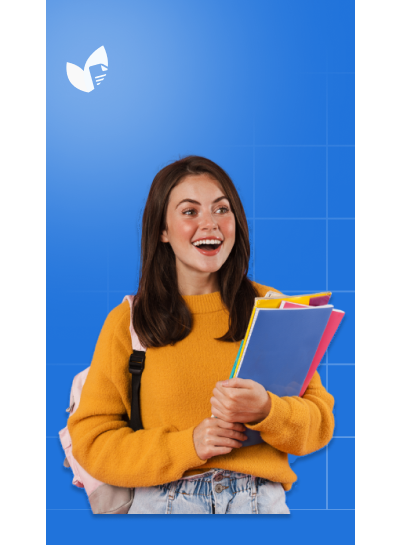
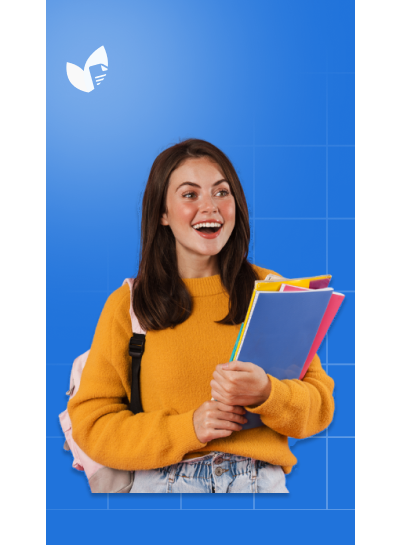
feat: "Selangkah Lagi!" page done

Changed region(s): [[0.15, 0.2495, 0.87, 0.967]]

diff --git a/lib/main.dart b/lib/main.dart
@@ -3,13 +3,11 @@ import 'package:ngoding_project/pages/login.dart';
 import 'package:ngoding_project/pages/splash.dart';
 import 'package:ngoding_project/pages/home.dart';
 import 'package:ngoding_project/pages/editsurvey.dart';
-import 'package:ngoding_project/pages/preview.dart'; // Tambahkan import untuk PreviewPage
-import 'package:ngoding_project/pages/verification.dart'; // Tambahkan import untuk VerificationPage
+import 'package:ngoding_project/pages/preview.dart';
+import 'package:ngoding_project/pages/verification.dart';
 
 void main() {
-  runApp(MaterialApp(
-    home: VerificationPage(),
-  ));
+  runApp(const MyApp());
 }
 
 class MyApp extends StatelessWidget {
@@ -22,13 +20,13 @@ class MyApp extends StatelessWidget {
       theme: ThemeData(
         primarySwatch: Colors.blue,
       ),
-      initialRoute: '/', // Awal aplikasi buka SplashScreen
+      initialRoute: '/', 
       routes: {
         '/': (context) => SplashScreen(), // Route ke SplashScreen
         '/login': (context) => LoginPage(), // Route ke LoginPage
         '/home': (context) => const HomePage(), // Route ke HomePage
         '/editsurvey': (context) => SurveyPage(), // Route ke SurveyPage
-        '/preview': (context) => PreviewPage(pages: []), // Route ke PreviewPage (baru ditambahkan)
+        '/preview': (context) => PreviewPage(pages: []), // Route ke PreviewPage
          '/verification': (context) => VerificationPage(), // Route ke VerificationPage
       },
       builder: (context, child) {

diff --git a/lib/pages/verification.dart b/lib/pages/verification.dart
@@ -445,19 +445,17 @@ class _PageFour extends StatelessWidget {
         Expanded(
           child: Container(
         width: double.infinity,
-  height: MediaQuery.of(context).size.height * 0.6, // Tinggi gambar (60% layar)
   child: Transform.scale(
-    scale: 1.2, // Nilai skala untuk zoom gambar
+    scale: 1.35, 
     child: Image.asset(
       'lib/assets/images/BeMySampleGirl.png', // Path gambar
-      fit: BoxFit.cover, // Tetap cover untuk menjaga proporsi
     ),
   ),   
           ),
         ),
         // Kontainer putih untuk teks
         Container(
-          height: MediaQuery.of(context).size.height * 0.3,
+          height: MediaQuery.of(context).size.height * 0.31,
           padding: const EdgeInsets.all(24.0),
           width: double.infinity,
           decoration: BoxDecoration(
@@ -502,7 +500,7 @@ class _PageFour extends StatelessWidget {
                 height: 40,
                 child: ElevatedButton(
                   onPressed: () {
-                    // Aksi ketika tombol ditekan
+                     Navigator.pushReplacementNamed(context, '/home');
                   },
                   style: ElevatedButton.styleFrom(
                     backgroundColor: Color(0xFF1F38DB),

diff --git a/lib/pages/services/api_service.dart b/lib/pages/services/api_service.dart
@@ -12,7 +12,7 @@ class ApiService {
         'Content-Type': 'application/json',
       },
       body: jsonEncode({
-        'email': email, // Parameter yang sesuai dengan backend
+        'email': email,
       }),
     );
 
